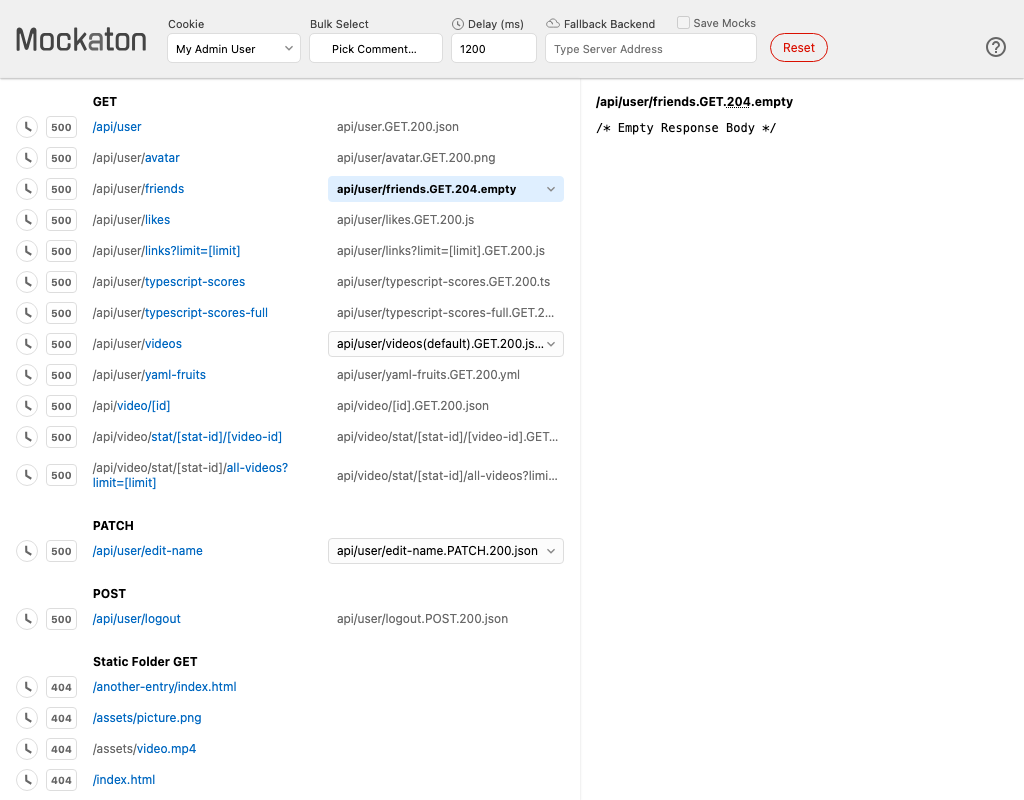
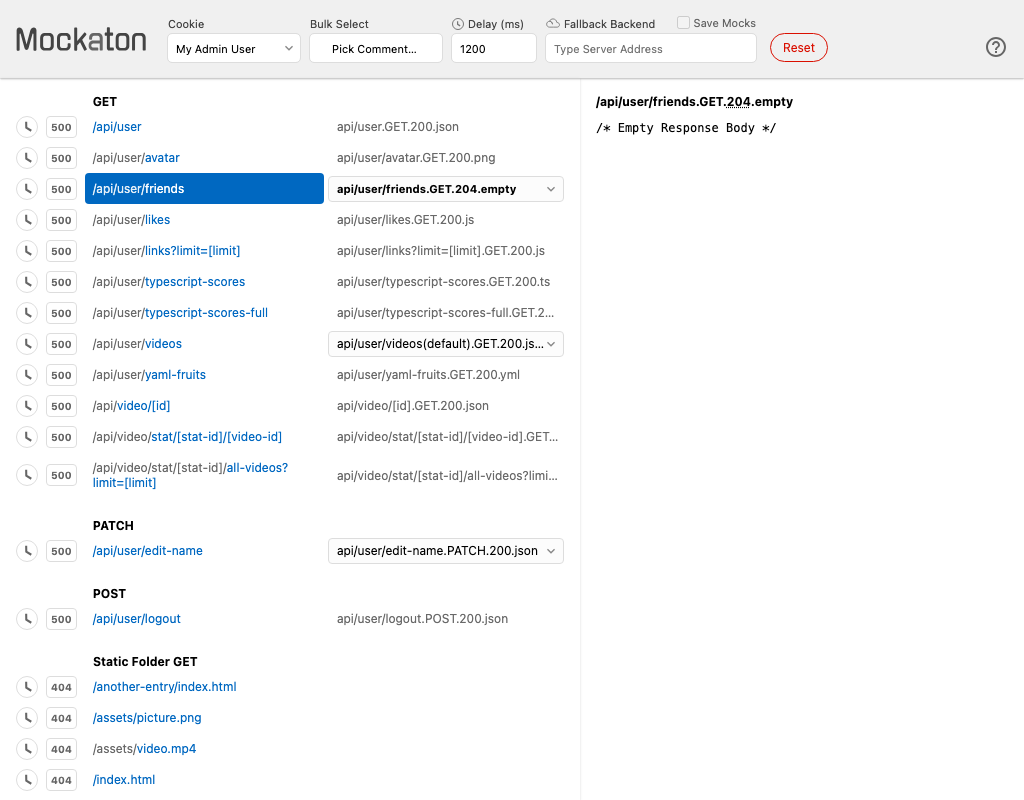
pixaton. remove dark screenshots from non readme pic and use mockaton to setup them

Changed region(s): [[0.0625, 0.2188, 0.5625, 0.2812]]

diff --git a/pixaton-tests/_setup.js b/pixaton-tests/_setup.js
@@ -16,7 +16,7 @@ await new Promise(resolve => {
 	})
 })
 const mockatonAddr = `http://${mockatonServer.address().address}:${mockatonServer.address().port}`
-const mockaton = new Commander(mockatonAddr)
+export const mockaton = new Commander(mockatonAddr)
 
 const testsDir = join(import.meta.dirname, 'macos')
 
@@ -38,61 +38,21 @@ after(() => {
 })
 
 export function testPixels(testFileName, options = {}) {
-	options.beforeSuite = async () => {
+	options.beforeSuite ??= async () => {
 		await mockaton.reset()
-		await mockaton.setProxyFallback('')
-		await mockaton.setCollectProxied(false)
 	}
 	options.viewports ??= [{
 		width: 1024,
 		height: 800
 	}]
-	options.colorSchemes ??= ['light', 'dark']
+	options.colorSchemes ??= ['light']
 	options.outputDir = testsDir
 	_testPixels(page, testFileName, mockatonAddr + '/mockaton', 'body', options)
 }
 
 
-export async function selectFromDropdown({ qaId, target }) {
-	const selector = `select[data-qaid="${qaId}"]`
-	await page.waitForSelector(selector)
-	await page.click(selector) // Just for showing focus state
-	await page.select(selector, target)
-}
-
 export async function clickLinkByText(linkText) {
 	const selector = `a ::-p-text(${linkText})`
 	await page.waitForSelector(selector)
 	await page.locator(selector).click()
-}
-
-
-function selectorForCheckbox(method, urlMask, checkboxClass) {
-	return `tr[data-method="${method}"][data-urlMask="${urlMask}"] .${checkboxClass} input[type=checkbox]`
-}
-
-export async function clickDelayCheckbox(method, urlMask) {
-	await clickCheckbox(selectorForCheckbox(method, urlMask, 'DelayToggler'))
-}
-export async function click500Checkbox(method, urlMask) {
-	await clickCheckbox(selectorForCheckbox(method, urlMask, 'InternalServerErrorToggler'))
-}
-export async function clickProxiedCheckbox(method, urlMask) {
-	await clickCheckbox(selectorForCheckbox(method, urlMask, 'ProxyToggler'))
-}
-
-export async function clickSaveProxiedCheckbox() {
-	await clickCheckbox(`.FallbackBackend input[type=checkbox]`)
-}
-
-async function clickCheckbox(selector) {
-	await page.waitForFunction(selector => !document.querySelector(selector)?.disabled,
-		{ polling: 'mutation' }, selector)
-	await page.$eval(selector, el => el.click())
-}
-
-export async function typeFallbackBackend(serverAddress) {
-	const el = await page.waitForSelector('.FallbackBackend input[type=url]')
-	await el.type(serverAddress)
-	await el.evaluate(el => el.blur())
 }

diff --git a/pixaton-tests/pic-for-readme.test.js b/pixaton-tests/pic-for-readme.test.js
@@ -1,14 +1,21 @@
-import { testPixels, clickLinkByText, click500Checkbox, clickDelayCheckbox, clickSaveProxiedCheckbox, typeFallbackBackend, clickProxiedCheckbox } from './_setup.js'
+import { testPixels, mockaton, clickLinkByText } from './_setup.js'
 
 
 testPixels(import.meta.filename, {
+	async beforeSuite() {
+		await mockaton.setProxyFallback('http://mybackend')
+		await mockaton.setCollectProxied(true)
+		await mockaton.select('api/user/friends.GET.500.txt')
+		await mockaton.setRouteIsProxied('GET', '/api/video/[id]', true)
+		await mockaton.setRouteIsDelayed('GET', '/api/user/links?limit=[limit]', true)
+	},
+
+	async afterSuite() {
+		await mockaton.setProxyFallback('')
+		await mockaton.setCollectProxied(false)
+	},
+
 	async setup() {
-		await click500Checkbox('GET', '/api/user/friends')
-		await clickDelayCheckbox('GET', '/api/user/links?limit=[limit]')
-		await typeFallbackBackend('http://mybackend')
-		await clickSaveProxiedCheckbox()
-		await sleep()
-		await clickProxiedCheckbox('GET', '/api/video/[id]')
 		await clickLinkByText('/api/user/likes')
 	},
 
@@ -16,9 +23,7 @@ testPixels(import.meta.filename, {
 		width: 880,
 		height: 800,
 		deviceScaleFactor: 1.5
-	}]
-})
+	}],
 
-async function sleep(ms = 50) {
-	return new Promise(resolve => setTimeout(resolve, ms))
-}
+	colorSchemes: ['light', 'dark']
+})

diff --git a/pixaton-tests/select-mock-variant.test.js b/pixaton-tests/select-mock-variant.test.js
@@ -1,11 +1,13 @@
-import { testPixels, selectFromDropdown } from './_setup.js'
+import { testPixels, mockaton, clickLinkByText } from './_setup.js'
 
 
 testPixels(import.meta.filename, {
+	async beforeSuite() {
+		await mockaton.reset()
+		await mockaton.select('api/user/friends.GET.204.empty')
+	},
+	
 	async setup() {
-		await selectFromDropdown({
-			qaId: '/api/user/friends',
-			target: 'api/user/friends.GET.204.empty'
-		})
+		await clickLinkByText('/api/user/friends')
 	}
 })

diff --git a/pixaton-tests/bulk-select.test.js b/pixaton-tests/bulk-select.test.js
@@ -1,11 +1,9 @@
-import { testPixels, selectFromDropdown } from './_setup.js'
+import { testPixels, mockaton } from './_setup.js'
 
 
 testPixels(import.meta.filename, {
-	async setup() {
-		await selectFromDropdown({
-			qaId: 'BulkSelector',
-			target: '(Mockaton 500)'
-		})
+	async beforeSuite() {
+		await mockaton.reset()
+		await mockaton.bulkSelectByComment('(Mockaton 500)')
 	}
 })
